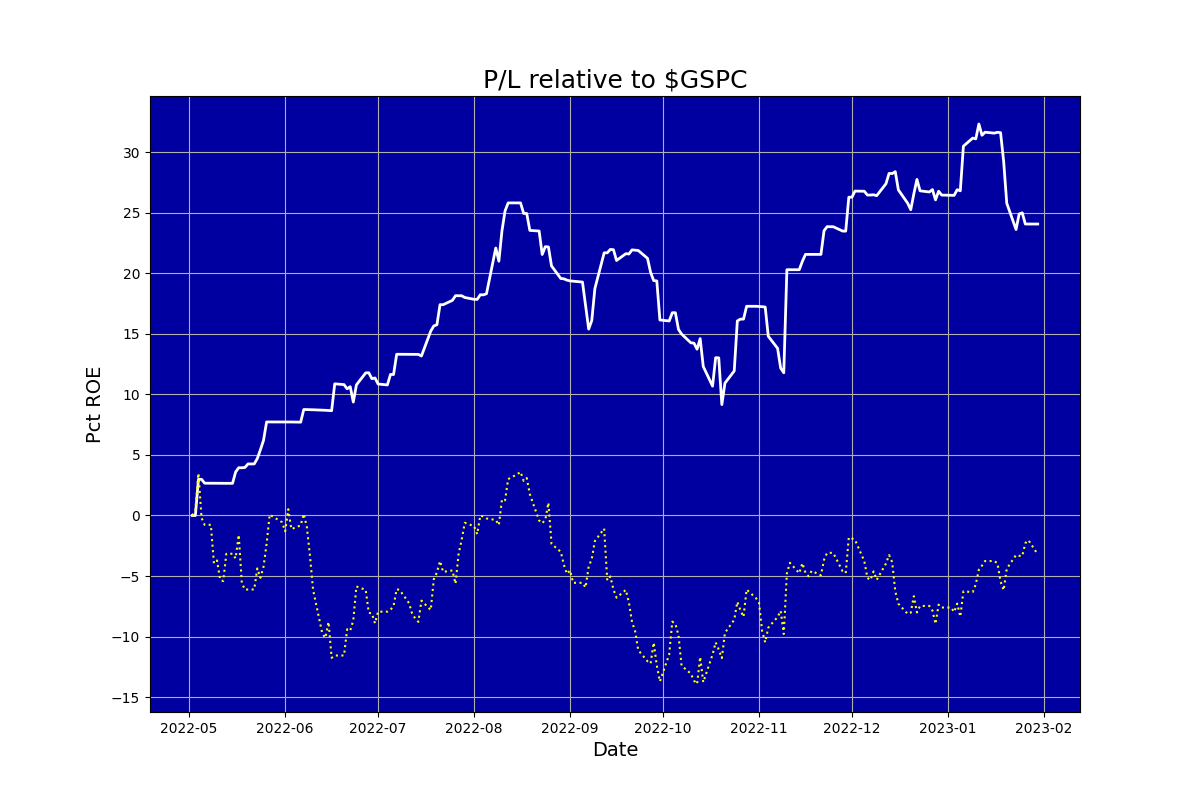
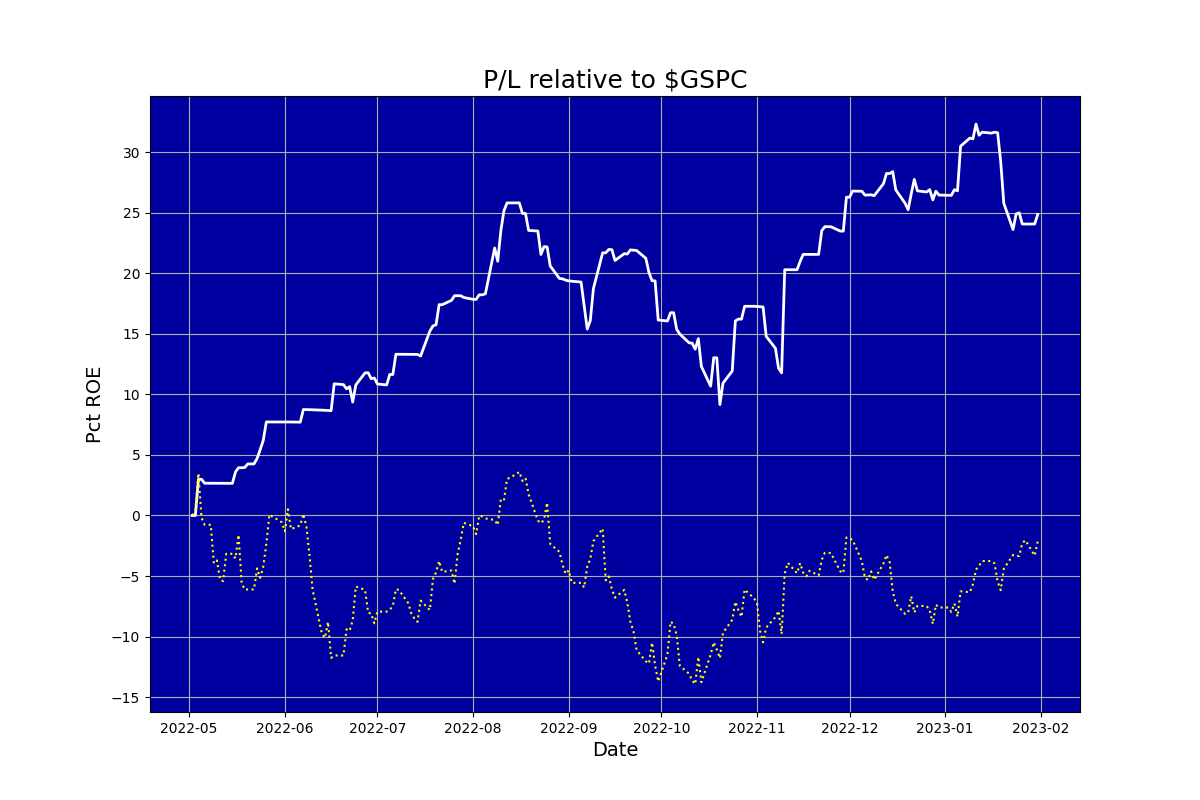
Updated

diff --git a/ig_report.html b/ig_report.html
@@ -1,1 +1,1 @@
-<html><body><center><h1>Auriel (never knowingly overbought)</h1></center><table cols=2><tr><td><img src=ig_pl.png></td><td><table cols=2><tr><td colspan=2><b><br>Snapshot</b></td></tr><tr><td>Last updated:&nbsp;&nbsp;&nbsp;</td><td>2023-01-30 15:56</td></tr><tr><td>Margin:&nbsp;&nbsp;&nbsp;</td><td>0.12</td></tr><tr><td>Cushion:&nbsp;&nbsp;&nbsp;</td><td>-5321.13</td></tr><tr><td>Last closed trade:&nbsp;&nbsp;&nbsp;</td><td>2023-01-26</td></tr><tr><td colspan=2><b><br>Positions</b></td></tr><tr><td>Mean days to new high:&nbsp;&nbsp;&nbsp;</td><td>11.34</td></tr><tr><td colspan=2><b><br>Trades</b></td></tr><tr><td>Traded days:&nbsp;&nbsp;&nbsp;</td><td>198</td></tr><tr><td>Profitable days pct:&nbsp;&nbsp;&nbsp;</td><td>34.85</td></tr><tr><td>Days beat S&P pct:&nbsp;&nbsp;&nbsp;</td><td>56.91</td></tr><tr><td>Profitable months pct:&nbsp;&nbsp;&nbsp;</td><td>77.78</td></tr><tr><td colspan=2><b><br>Performance</b></td></tr><tr><td>Pct median monthly ROE:&nbsp;&nbsp;&nbsp;</td><td>1.43</td></tr><tr><td>Pct annualised ROE:&nbsp;&nbsp;&nbsp;</td><td>30.39</td></tr><tr><td colspan=2><b><br>Risk</b></td></tr><tr><td>Volatility pct:&nbsp;&nbsp;&nbsp;</td><td>19.83</td></tr><tr><td>Benchmark volatility pct:&nbsp;&nbsp;&nbsp;</td><td>24.25</td></tr><tr><td>Sharpe ratio (RFR 5.0%):&nbsp;&nbsp;&nbsp;</td><td>1.37</td></tr><tr><td>Sortino ratio (RFR 5.0%):&nbsp;&nbsp;&nbsp;</td><td>2.12</td></tr><tr><td>Calmar ratio:&nbsp;&nbsp;&nbsp;</td><td>1.82</td></tr><tr><td>Worst drawdown pct:&nbsp;&nbsp;&nbsp;</td><td>-0.17</td></tr><tr><td>Recovery days from worst drawdown:&nbsp;&nbsp;&nbsp;</td><td>29.00</td></tr><tr><td>Beat benchmark +ve periods pct:&nbsp;&nbsp;&nbsp;</td><td>79.36</td></tr><tr><td>Beat benchmark -ve periods pct:&nbsp;&nbsp;&nbsp;</td><td>93.54</td></tr><tr><td>Correlation with benchmark:&nbsp;&nbsp;&nbsp;</td><td>0.38</td></tr></table></td></tr></table></body></html>
+<html><body><center><h1>Auriel (never knowingly overbought)</h1></center><table cols=2><tr><td><img src=ig_pl.png></td><td><table cols=2><tr><td colspan=2><b><br>Snapshot</b></td></tr><tr><td>Last updated:&nbsp;&nbsp;&nbsp;</td><td>2023-01-31 15:56</td></tr><tr><td>Margin:&nbsp;&nbsp;&nbsp;</td><td>0.06</td></tr><tr><td>Cushion:&nbsp;&nbsp;&nbsp;</td><td>-5115.49</td></tr><tr><td>Last closed trade:&nbsp;&nbsp;&nbsp;</td><td>2023-01-31</td></tr><tr><td colspan=2><b><br>Positions</b></td></tr><tr><td>Mean days to new high:&nbsp;&nbsp;&nbsp;</td><td>11.33</td></tr><tr><td colspan=2><b><br>Trades</b></td></tr><tr><td>Traded days:&nbsp;&nbsp;&nbsp;</td><td>199</td></tr><tr><td>Profitable days pct:&nbsp;&nbsp;&nbsp;</td><td>35.18</td></tr><tr><td>Days beat S&P pct:&nbsp;&nbsp;&nbsp;</td><td>56.61</td></tr><tr><td>Profitable months pct:&nbsp;&nbsp;&nbsp;</td><td>77.78</td></tr><tr><td colspan=2><b><br>Performance</b></td></tr><tr><td>Pct median monthly ROE:&nbsp;&nbsp;&nbsp;</td><td>1.43</td></tr><tr><td>Pct annualised ROE:&nbsp;&nbsp;&nbsp;</td><td>31.23</td></tr><tr><td colspan=2><b><br>Risk</b></td></tr><tr><td>Volatility pct:&nbsp;&nbsp;&nbsp;</td><td>19.79</td></tr><tr><td>Benchmark volatility pct:&nbsp;&nbsp;&nbsp;</td><td>24.28</td></tr><tr><td>Sharpe ratio (RFR 5.0%):&nbsp;&nbsp;&nbsp;</td><td>1.42</td></tr><tr><td>Sortino ratio (RFR 5.0%):&nbsp;&nbsp;&nbsp;</td><td>2.19</td></tr><tr><td>Calmar ratio:&nbsp;&nbsp;&nbsp;</td><td>1.88</td></tr><tr><td>Worst drawdown pct:&nbsp;&nbsp;&nbsp;</td><td>-0.17</td></tr><tr><td>Recovery days from worst drawdown:&nbsp;&nbsp;&nbsp;</td><td>29.00</td></tr><tr><td>Beat benchmark +ve periods pct:&nbsp;&nbsp;&nbsp;</td><td>79.05</td></tr><tr><td>Beat benchmark -ve periods pct:&nbsp;&nbsp;&nbsp;</td><td>93.53</td></tr><tr><td>Correlation with benchmark:&nbsp;&nbsp;&nbsp;</td><td>0.38</td></tr></table></td></tr></table></body></html>
